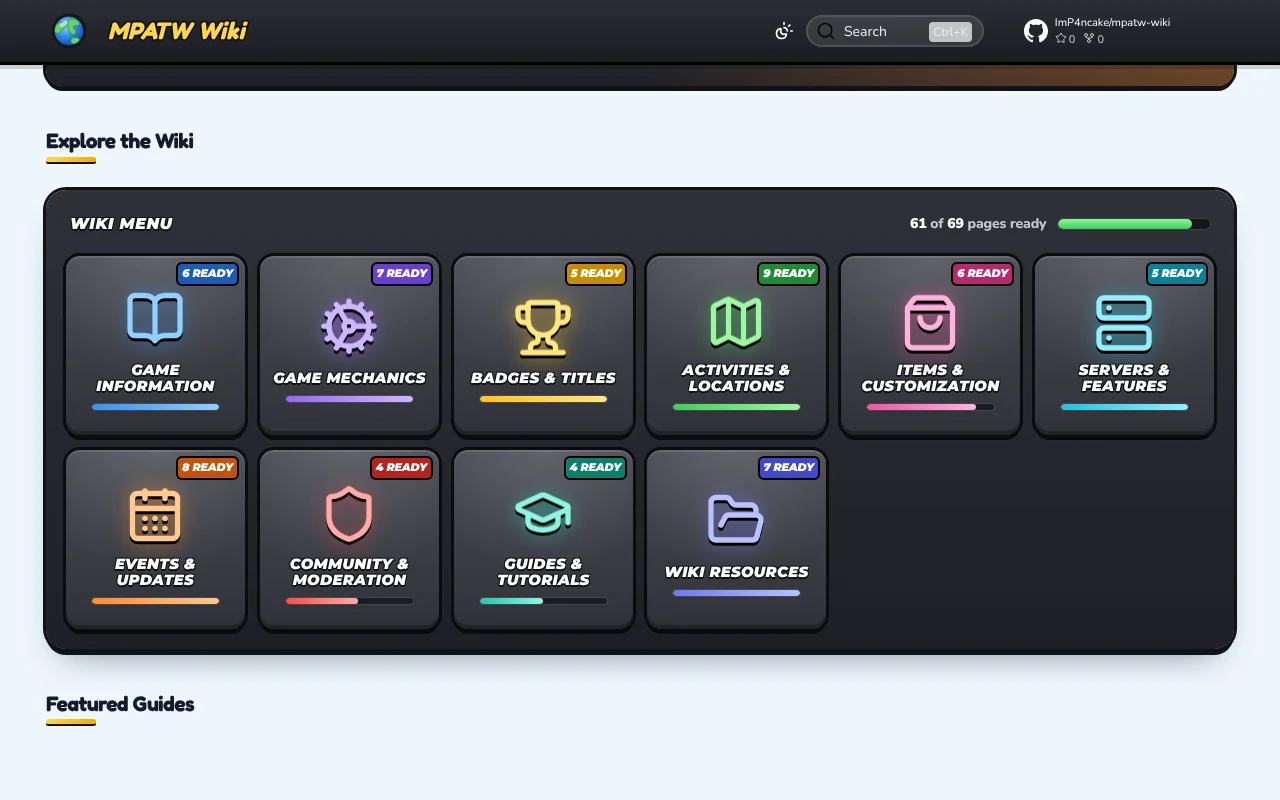
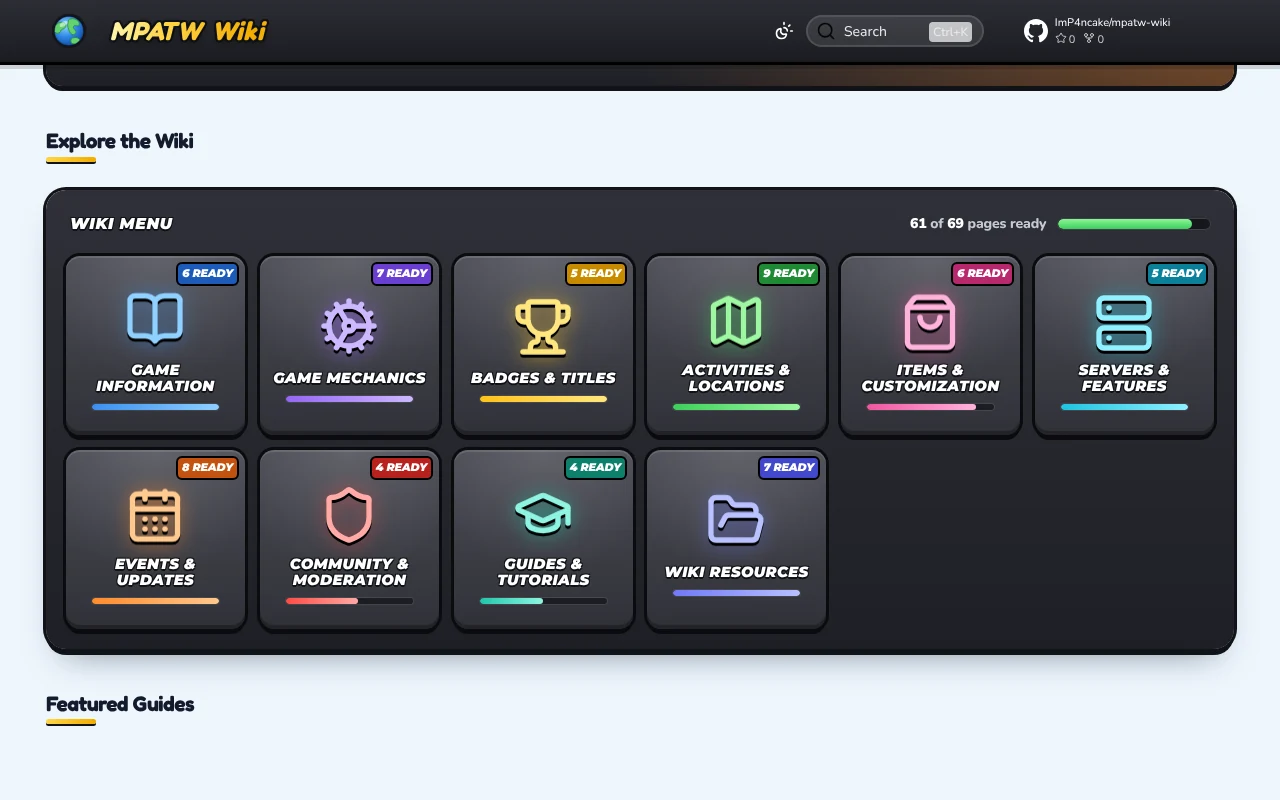
Make the header name the same gold title as on the home page
The "MPATW Wiki" name in the header now uses the home page title's look:
a thick black outline under a gold gradient with the moving shine, a bit
bigger than before. On phones it shrinks less, still clear of the icons.
The README pictures show the new header.

Claude-Session: https://claude.ai/code/session_014EBHDT4hfdVdreJ4iw3poM

diff --git a/docs/assets/stylesheets/game.css b/docs/assets/stylesheets/game.css
@@ -120,7 +120,7 @@ body {
   font-family: var(--mp-display);
   font-weight: 700;
   font-style: italic;
-  font-size: 1.2rem;
+  font-size: 1.3rem;
   color: var(--mp-gold-2);
   text-shadow: var(--mp-outline-thin);
 }
@@ -2571,6 +2571,44 @@ body {
   animation: mp-title-shine 6s linear 1s infinite;
 }
 
+/* The wiki's name in the header: the same gold title as on the home page */
+.md-header__topic:first-child .md-ellipsis.mp-outlined {
+  position: relative;
+  overflow: visible;
+  letter-spacing: 0.02em;
+  word-spacing: 0.12em;
+  padding-left: 0.08em;
+  color: transparent;
+  -webkit-text-fill-color: transparent;
+  -webkit-text-stroke: 0;
+  text-shadow: none;
+}
+
+.md-header__topic:first-child .md-ellipsis.mp-outlined::before,
+.md-header__topic:first-child .md-ellipsis.mp-outlined::after {
+  content: attr(data-text);
+  position: absolute;
+  inset: 0;
+  padding: inherit;
+  pointer-events: none;
+}
+
+.md-header__topic:first-child .md-ellipsis.mp-outlined::before {
+  -webkit-text-fill-color: var(--mp-ink);
+  -webkit-text-stroke: 0.17em var(--mp-ink);
+  text-shadow: 0 0.07em 0 var(--mp-ink), 0 0.14em 0.3em rgba(0, 0, 0, 0.35);
+}
+
+.md-header__topic:first-child .md-ellipsis.mp-outlined::after {
+  background: linear-gradient(100deg, var(--mp-gold-2) 0%, var(--mp-gold-1) 18%, var(--mp-gold-2) 30%, var(--mp-gold-3) 52%,
+      var(--mp-gold-2) 70%, #fffbe0 80%, var(--mp-gold-2) 90%);
+  background-size: 250% 100%;
+  -webkit-background-clip: text;
+  background-clip: text;
+  -webkit-text-fill-color: transparent;
+  animation: mp-title-shine 6s linear 1s infinite;
+}
+
 /* text boxes on the sky: solid enough that clouds don't show through */
 .mp-hero__sub,
 .mp-hero .mp-updated,
@@ -2676,13 +2714,13 @@ body {
 
 @media screen and (max-width: 380px) {
   .md-header__topic:first-child .md-ellipsis {
-    font-size: 0.95rem;
+    font-size: 1.15rem;
   }
 }
 
 @media screen and (max-width: 340px) {
   .md-header__topic:first-child .md-ellipsis {
-    font-size: 0.78rem;
+    font-size: 1rem;
     padding-right: 0.15em;
   }
 }

diff --git a/docs/assets/javascripts/game.js b/docs/assets/javascripts/game.js
@@ -278,10 +278,11 @@
     setInterval(spawn, 1300);
   }
 
-  // Page titles get a black outline layer under a gold layer, like the
-  // game's title, without letters cutting into each other.
+  // Page titles and the wiki's name in the header get a black outline layer
+  // under a gold layer, like the game's title, without letters cutting into
+  // each other.
   function initTitles() {
-    document.querySelectorAll(".md-typeset h1").forEach(function (h) {
+    document.querySelectorAll(".md-typeset h1, .md-header__topic:first-child .md-ellipsis").forEach(function (h) {
       var copy = h.cloneNode(true);
       copy.querySelectorAll(".headerlink").forEach(function (x) { x.remove(); });
       var label = copy.textContent.trim();
